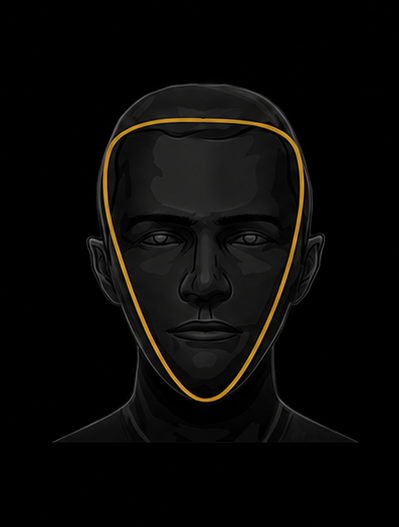
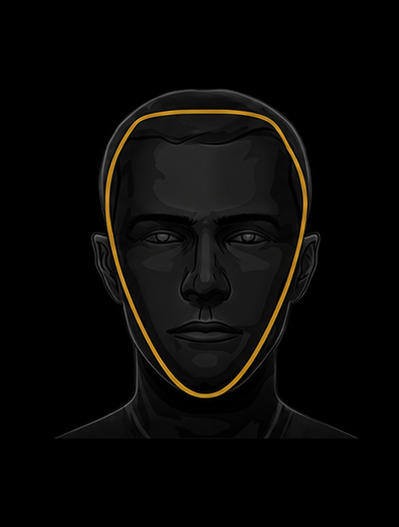
Adiciona imagens dos tipos de rosto no seletor de formato
- Substitui diamond.png e heart.png pelos rostos corretos (mapeamento:
  rosto5=Diamante, rosto6=Coração) em src/assets/faces
- FaceShapeSelector agora importa as imagens em vez de usar o caminho
  /src/assets/faces/... (que nao resolve no build de producao)

diff --git a/frontend/src/components/evaluation/FaceShapeSelector.jsx b/frontend/src/components/evaluation/FaceShapeSelector.jsx
@@ -1,13 +1,20 @@
 import { Label } from '@/components/ui/label';
+import oval from '@/assets/faces/oval.png';
+import square from '@/assets/faces/square.png';
+import rectangular from '@/assets/faces/rectangular.png';
+import round from '@/assets/faces/round.png';
+import heart from '@/assets/faces/heart.png';
+import diamond from '@/assets/faces/diamond.png';
+import pear from '@/assets/faces/pear.png';
 
 export const FACE_SHAPE_OPTIONS = [
-  { value: 'Oval', label: 'Oval', img: 'oval.png' },
-  { value: 'Quadrado', label: 'Quadrado', img: 'square.png' },
-  { value: 'Retangular', label: 'Retangular (Oblongo)', img: 'rectangular.png' },
-  { value: 'Redondo', label: 'Redondo', img: 'round.png' },
-  { value: 'Coração', label: 'Coração (Triângulo invertido)', img: 'heart.png' },
-  { value: 'Diamante', label: 'Diamante', img: 'diamond.png' },
-  { value: 'Pera', label: 'Pera (Triângulo)', img: 'pear.png' },
+  { value: 'Oval', label: 'Oval', img: oval },
+  { value: 'Quadrado', label: 'Quadrado', img: square },
+  { value: 'Retangular', label: 'Retangular (Oblongo)', img: rectangular },
+  { value: 'Redondo', label: 'Redondo', img: round },
+  { value: 'Coração', label: 'Coração (Triângulo invertido)', img: heart },
+  { value: 'Diamante', label: 'Diamante', img: diamond },
+  { value: 'Pera', label: 'Pera (Triângulo)', img: pear },
 ];
 
 export function faceShapeLabel(value) {
@@ -33,7 +40,7 @@ export function FaceShapeSelector({ value, onChange, label = 'Formato do Rosto' 
               }`}
             >
               <img
-                src={`/src/assets/faces/${opt.img}`}
+                src={opt.img}
                 alt={opt.label}
                 className="h-16 w-auto object-contain"
               />
